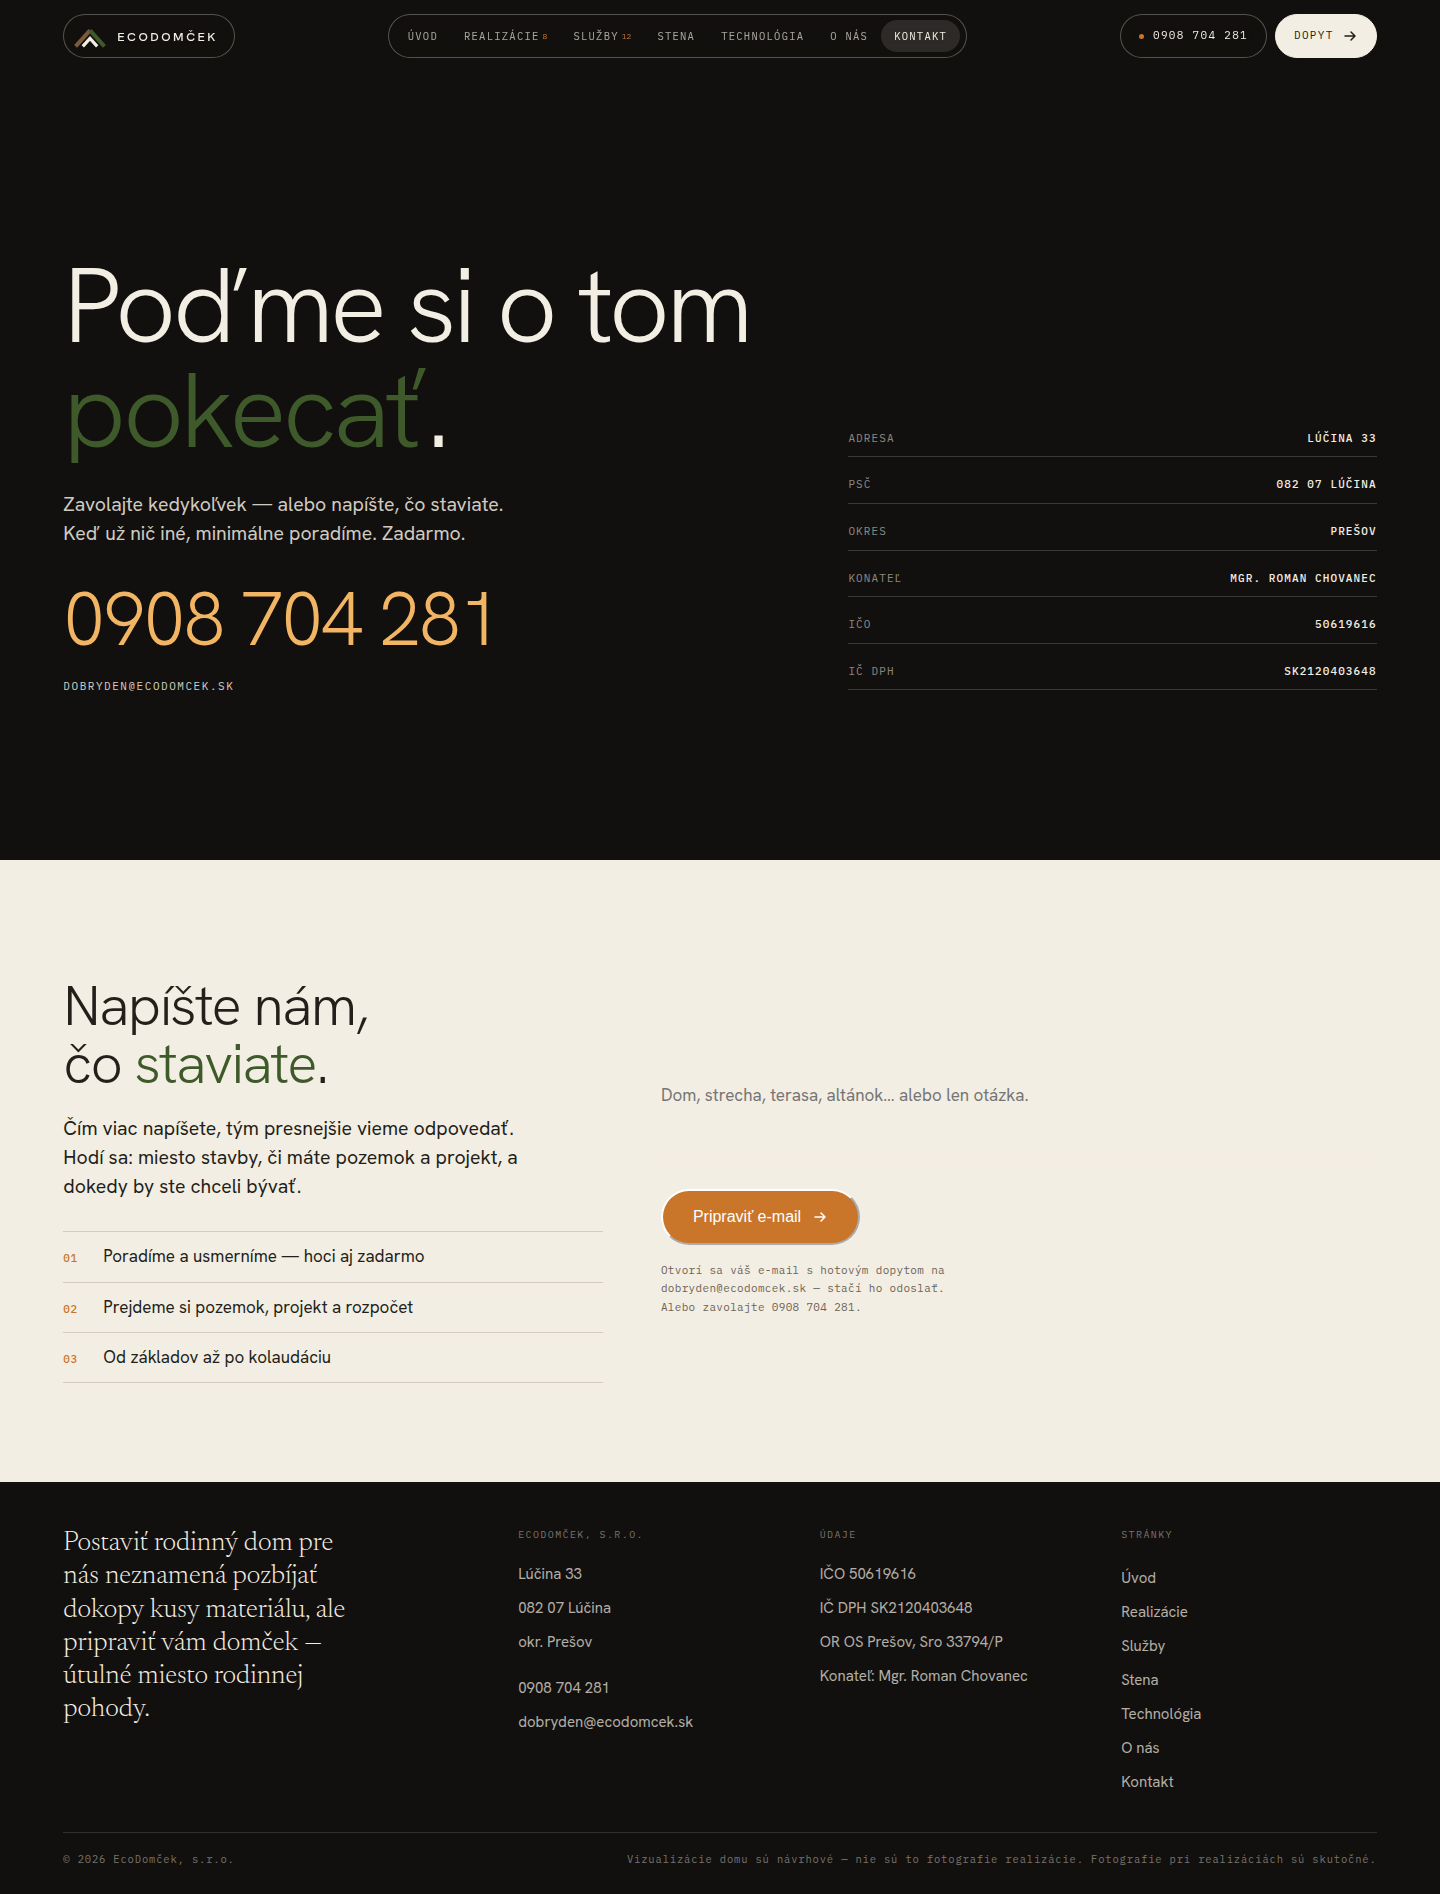
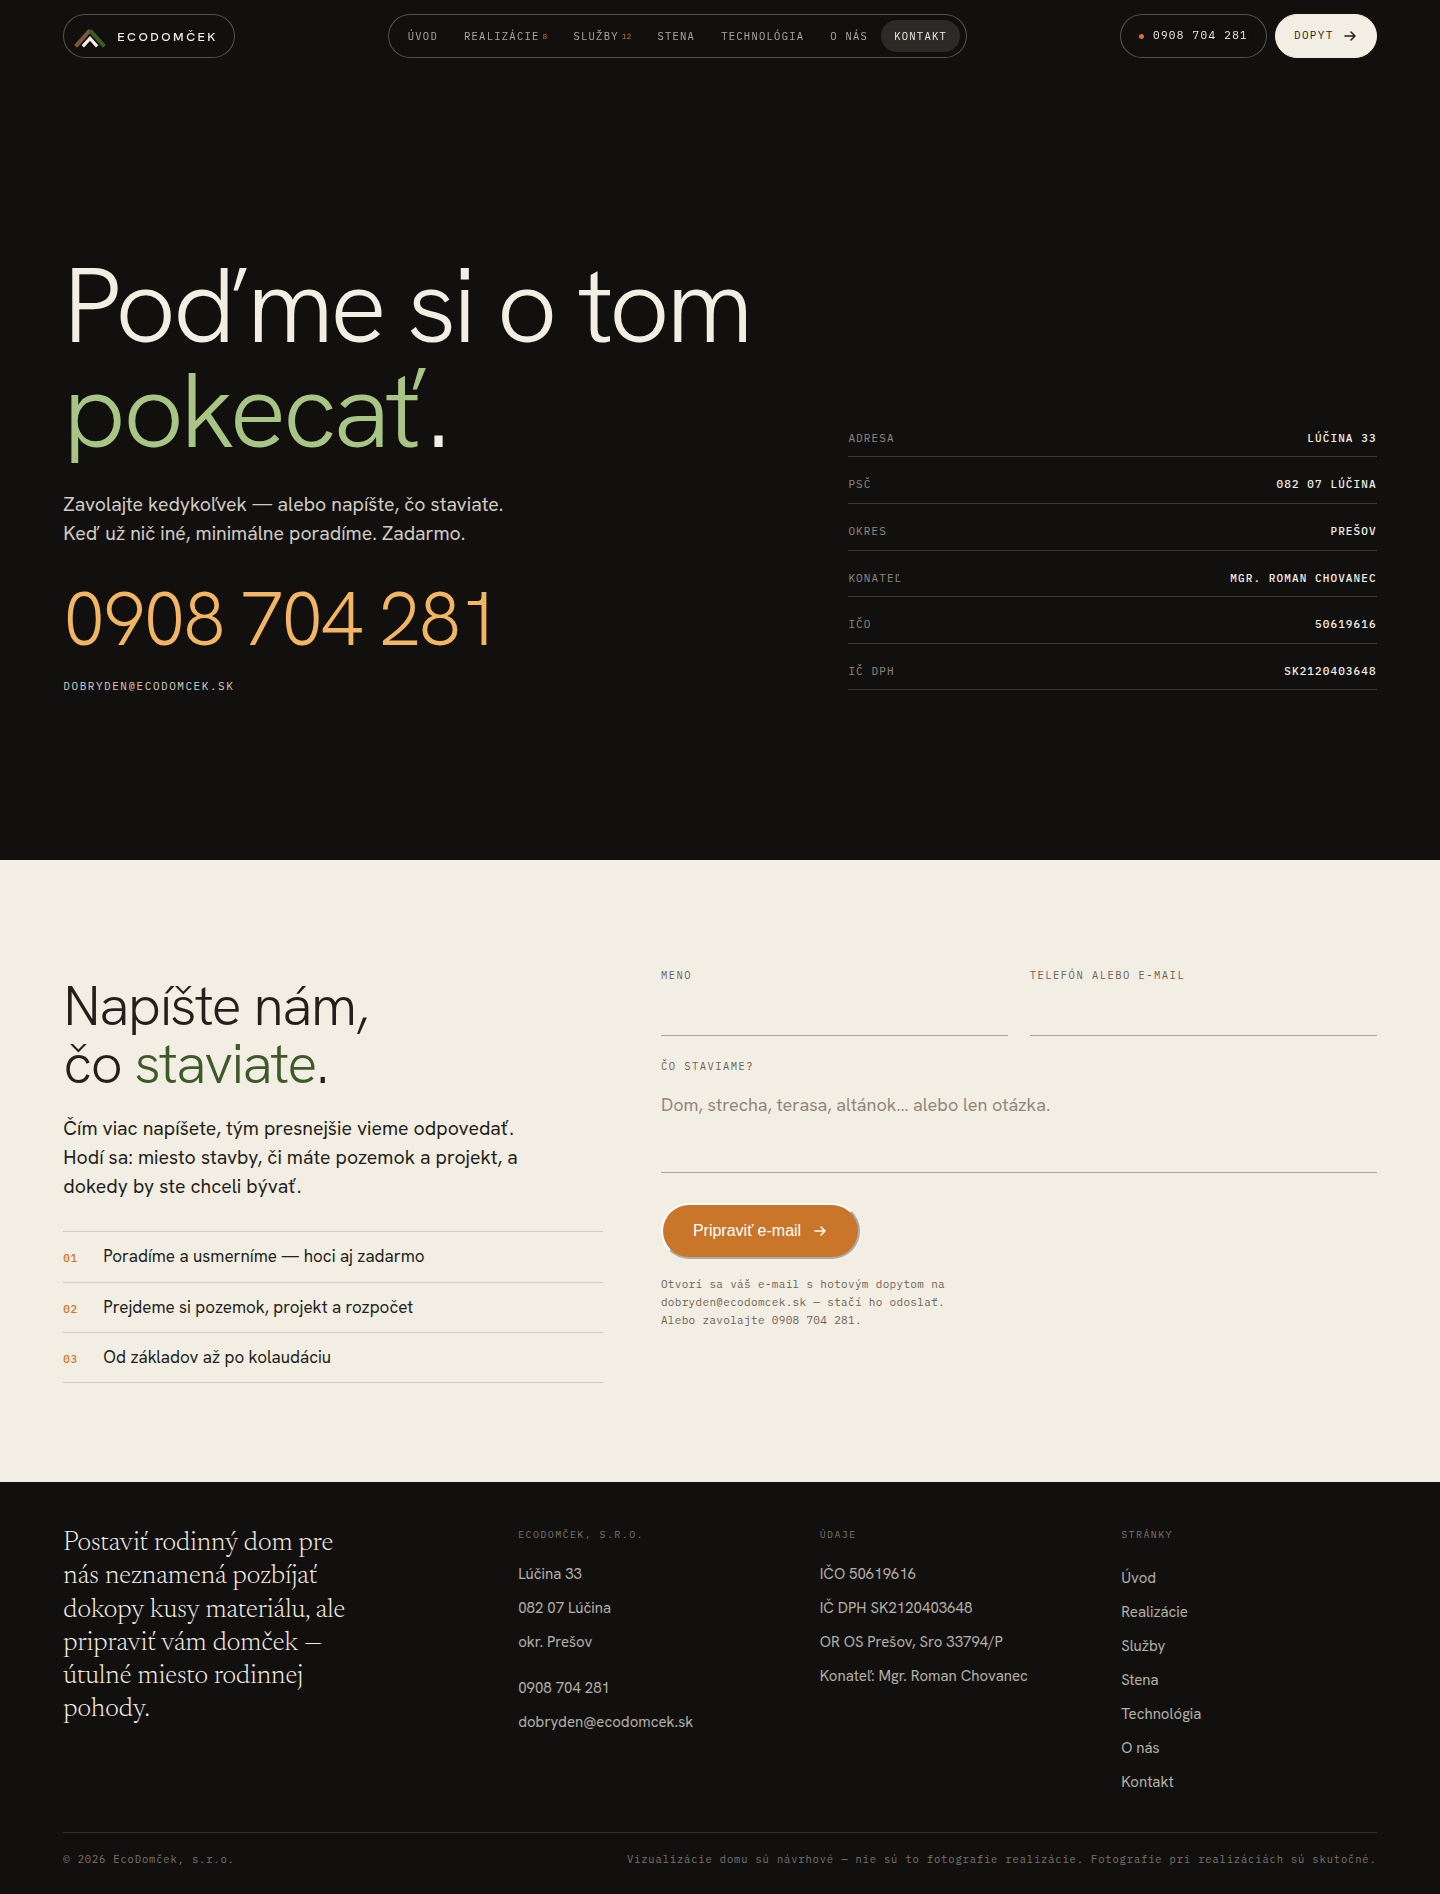
EcoDomcek: Kontakt — neviditelny formular, citatelny akcent, mobil
Formular bol nastylovany pre tmavy pas (svetle pismo, svetle ciary),
ale zije na papieri — polia Meno a Telefon boli neviditelne. Teraz
papierova varianta ako zaklad, svetla pre tmave pasy. Akcent v nadpise
bol machovy na takmer ciernom. .band.dusk .mhead prebijal mobilne
zlozenie do jedneho stlpca — udaje boli stlacene vedla nadpisu.

Claude-Session: https://claude.ai/code/session_0185BVM6PQ8B7oEkPHRwx1P3

Changed region(s): [[0.4375, 0.623, 0.6562, 0.7165], [0.0312, 0.1869, 0.2812, 0.2492], [0.4688, 0.5607, 0.7188, 0.5919]]

diff --git a/clients/ecodomcek/web/src/site.css b/clients/ecodomcek/web/src/site.css
@@ -261,12 +261,19 @@ figure{margin:0;position:relative}
 .tel-big{white-space:nowrap;font-size:clamp(34px,5.2vw,86px);font-weight:300;letter-spacing:-.025em;color:var(--glow);
   line-height:1;display:inline-block}
 .form{display:grid;grid-template-columns:1fr 1fr;gap:22px;margin-top:8px}
-.form label{display:flex;flex-direction:column;gap:8px;font-family:var(--mono);font-size:10px;
-  letter-spacing:.14em;text-transform:uppercase;color:rgba(243,238,227,.55)}
+/* the form reads on paper (its home is kontakt.html's paper band); a dark
+   band gets the light variant below */
+.form label{display:flex;flex-direction:column;gap:8px;font-family:var(--mono);font-size:10.5px;
+  letter-spacing:.14em;text-transform:uppercase;color:var(--ink2)}
 .form label.wide{grid-column:1/-1}
-.form input,.form textarea{background:transparent;border:0;border-bottom:1px solid rgba(243,238,227,.28);
-  color:#f3eee3;font-family:var(--sans);font-size:17px;padding:8px 0;resize:none;transition:border-color .3s}
-.form input:focus,.form textarea:focus{outline:0;border-color:var(--glow)}
+.form input,.form textarea{background:transparent;border:0;border-bottom:1px solid rgba(35,31,26,.35);
+  color:var(--ink);font-family:var(--sans);font-size:18px;padding:10px 0;resize:none;transition:border-color .3s}
+.form input::placeholder,.form textarea::placeholder{color:rgba(107,99,87,.75)}
+.form input:focus,.form textarea:focus{outline:0;border-color:var(--amber)}
+.band.dusk .form label,.band.moss .form label{color:rgba(243,238,227,.62)}
+.band.dusk .form input,.band.dusk .form textarea,.band.moss .form input,.band.moss .form textarea{
+  border-bottom-color:rgba(243,238,227,.3);color:#f3eee3}
+.band.dusk .form input:focus,.band.dusk .form textarea:focus{border-color:var(--glow)}
 .btn{display:inline-flex;align-items:center;gap:11px;height:56px;padding:0 30px;border-radius:999px;
   background:var(--amber);color:#fff;font-size:16px;font-weight:500;width:fit-content;
   transition:transform .35s var(--ease),background .3s}
@@ -743,6 +750,9 @@ h2.big em{font-style:normal;color:var(--moss)}
 .band.dusk .mmeta div b{color:#f3eee3}
 .band.dusk .masthead .lead{color:rgba(243,238,227,.86)}
 .band.dusk .mhead{display:grid;grid-template-columns:minmax(0,1.35fr) minmax(0,1fr);gap:clamp(26px,5vw,80px);align-items:end}
+@media (max-width:820px){ .band.dusk .mhead{grid-template-columns:1fr;gap:34px} }
+/* an accent word on the dusk band: moss on near-black is invisible */
+.band.dusk h1 em,.band.dusk h2 em{color:#a9c585}
 
 /* ═══ STAVEBNÝ LIST — the project sheet ════════════════════════════════
    igloo.md: mono annotation over the object like an engineer's drawing.
